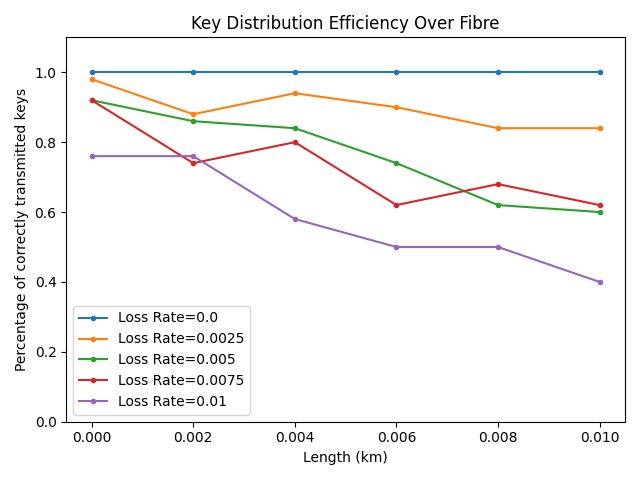
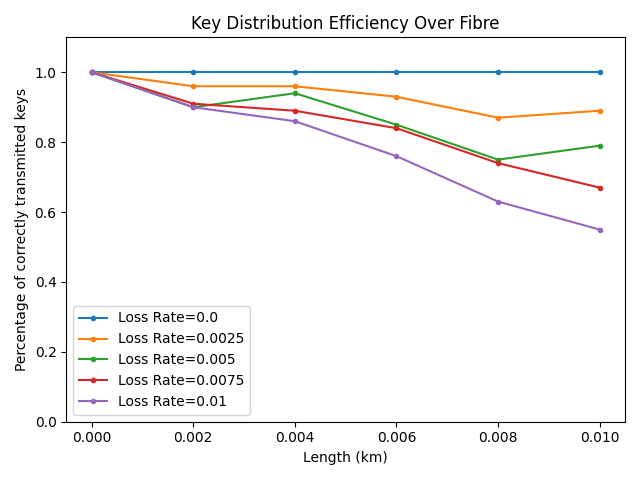
Small update and better plot

diff --git a/BB84/BB84_realistic.py b/BB84/BB84_realistic.py
@@ -333,7 +333,7 @@ def plot_loss_experiment(runs=100):
                                        runs=runs,
                                        t_time={'T1': 11, 'T2': 10},
                                        q_source_probs=[1., 0.],
-                                       loss=(loss, loss)),
+                                       loss=(0, loss)),
                         )
         correct_keys = [d['MATCHED_KEYS'] / runs for d in data]
         plt.plot([l / 1000 for l in lengths], correct_keys,
